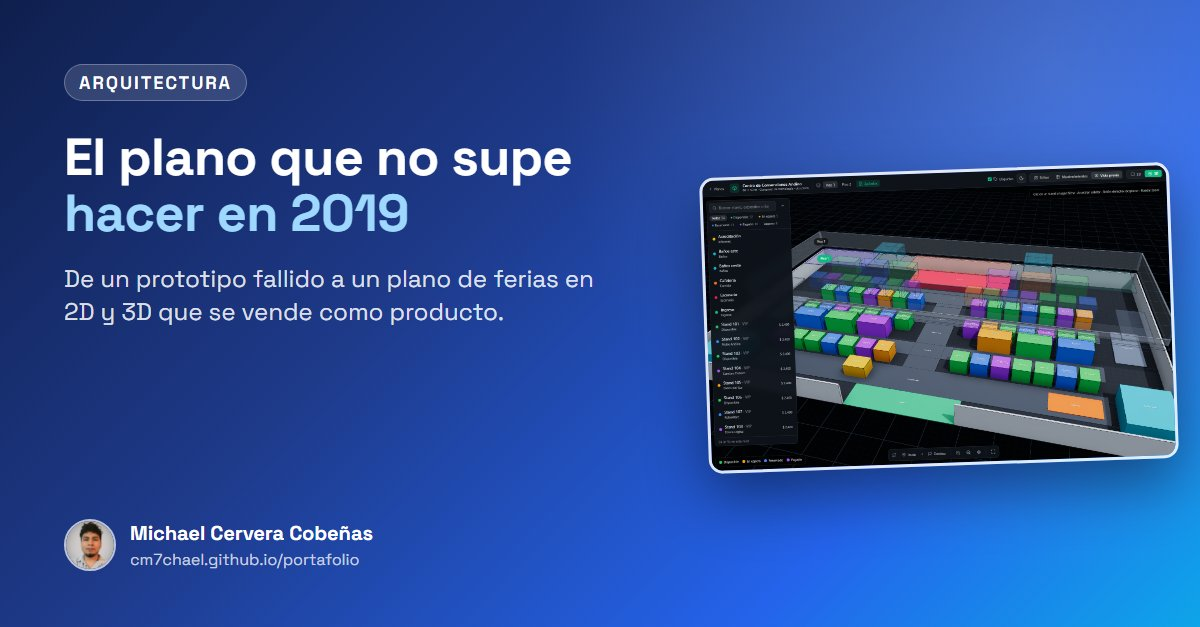
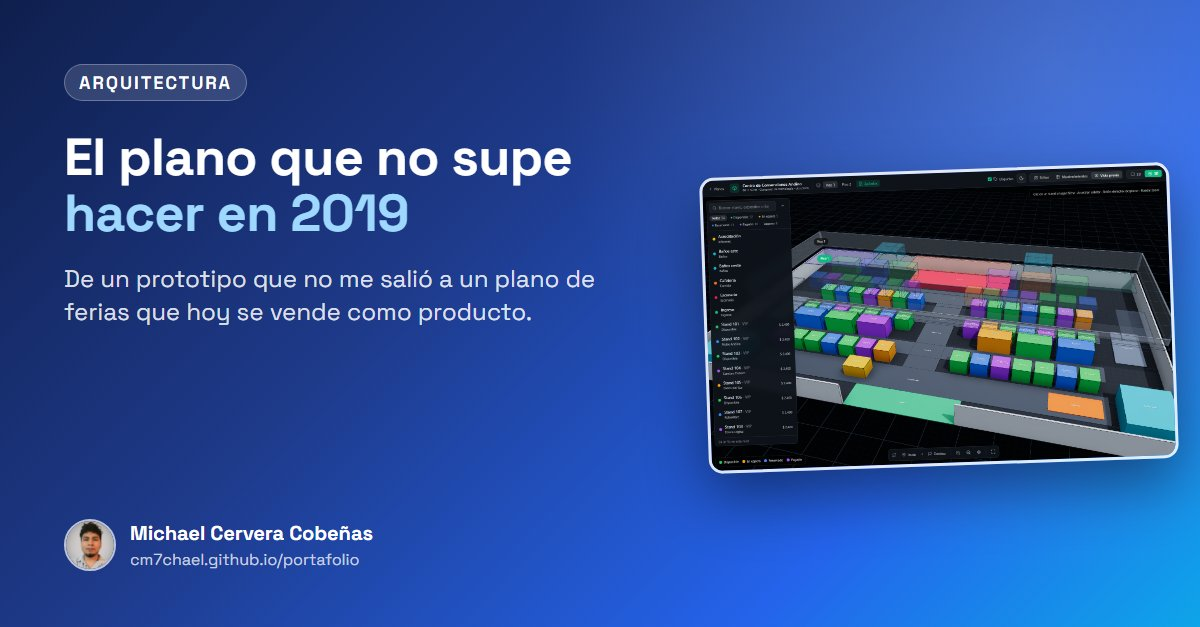
Artículo del plano: el sistema actual en el centro

Changed region(s): [[0.0308, 0.4242, 0.4933, 0.5152]]

diff --git a/blog/plano-de-ferias-que-no-supe-hacer-2019.html b/blog/plano-de-ferias-que-no-supe-hacer-2019.html
@@ -21,7 +21,7 @@
   <meta property="og:image" content="https://cm7chael.github.io/portafolio/assets/image/blog/plano-ferias.jpg">
   <meta property="og:url" content="https://cm7chael.github.io/portafolio/blog/plano-de-ferias-que-no-supe-hacer-2019.html">
   <meta name="twitter:card" content="summary_large_image">
-  <script type="application/ld+json">{"@context":"https://schema.org","@type":"BlogPosting","headline":"El plano de ferias que no supe hacer en 2019","description":"En 2019 intenté un plano web para ferias y no me salió. En 2025 lo retomamos y hoy se vende como producto. Qué puso la IA y qué tuvimos que decidir nosotros.","image":"https://cm7chael.github.io/portafolio/assets/image/blog/plano-ferias.jpg","datePublished":"2026-10-20T20:22:10.314Z","dateModified":"2026-10-20T20:22:10.333Z","author":{"@type":"Person","name":"Michael Cervera Cobeñas","url":"https://cm7chael.github.io/portafolio/"},"mainEntityOfPage":"https://cm7chael.github.io/portafolio/blog/plano-de-ferias-que-no-supe-hacer-2019.html","keywords":"Canvas, Konva, Three.js, IA, Producto"}</script>
+  <script type="application/ld+json">{"@context":"https://schema.org","@type":"BlogPosting","headline":"El plano de ferias que no supe hacer en 2019","description":"En 2019 intenté un plano web para ferias y no me salió. En 2025 lo retomamos y hoy se vende como producto. Qué puso la IA y qué tuvimos que decidir nosotros.","image":"https://cm7chael.github.io/portafolio/assets/image/blog/plano-ferias.jpg","datePublished":"2026-10-20T20:22:10.314Z","dateModified":"2026-10-20T20:40:00.379Z","author":{"@type":"Person","name":"Michael Cervera Cobeñas","url":"https://cm7chael.github.io/portafolio/"},"mainEntityOfPage":"https://cm7chael.github.io/portafolio/blog/plano-de-ferias-que-no-supe-hacer-2019.html","keywords":"Canvas, Konva, IA, Producto, Ferias"}</script>
 </head>
 <body>
   <nav class="navbar navbar-expand-lg navbar-dark nav-glass fixed-top">
@@ -54,23 +54,18 @@
 
 <p>Hice un primer prototipo con Fabric.js. No quedó bien. La librería no tuvo la culpa: yo no sabía cómo hacerlo. Me faltaba conocimiento para llevar un dibujo en un lienzo a algo que se pudiera guardar, editar y vender.</p>
 
-<p>En 2025 lo retomamos, y hoy la gestión de ferias de Zappyn y su plano se venden como producto. Cuento qué cambió en el camino, qué parte puso la IA y qué parte me tocó decidir a mí.</p>
+<p>En 2025 lo retomamos, y hoy la gestión de ferias de Zappyn y su plano se venden como producto. Cuento qué cambió en el camino, qué parte puso la IA y qué parte nos tocó decidir a nosotros.</p>
 
 <h2>Un plano de feria es más difícil de lo que parece</h2>
 
 <p>Visto de lejos, es un rectángulo con rectángulos adentro. Cuando te sientas a hacerlo aparecen las preguntas:</p>
 
 <ul>
-  <li>Cada stand tiene medidas reales, un precio, un tipo y un estado: disponible, en espera, reservado o pagado.</li>
-  <li>Un expositor puede ocupar varios stands, y cuando se le asigna uno libre, ese stand pasa a reservado.</li>
-  <li>Quien vende y quien visita ven el mismo plano, pero necesitan cosas distintas: el que vende quiere una tabla con totales; el visitante quiere encontrar un stand y saber cómo llegar.</li>
+  <li>Cada stand tiene medidas reales, un precio y un estado: disponible, en espera, reservado o pagado.</li>
+  <li>Un expositor puede ocupar varios stands, y un stand que ya está en espera, reservado o pagado no se le puede vender a otro.</li>
+  <li>Quien organiza, quien expone y quien visita ven el mismo plano, pero necesitan cosas distintas: el organizador lo dibuja y lo administra, el expositor reserva su stand y el visitante quiere encontrar uno y saber cómo llegar.</li>
   <li>Y lo que se dibuja tiene que volver a abrirse igual, mañana, en otra computadora.</li>
 </ul>
-
-<figure>
-  <img src="https://cm7chael.github.io/portafolio/assets/image/blog/plano-ferias-stands.jpg" alt="Tabla de stands con tipo, expositor, estado, precio y medidas de cada uno" width="1600" height="1000" loading="lazy">
-  <figcaption>Lo que ve quien vende: los mismos stands del plano, como tabla, con su estado y su precio.</figcaption>
-</figure>
 
 <p>En 2019 yo veía el dibujo. Las preguntas de abajo no las veía, y son las que deciden si el plano sirve.</p>
 
@@ -78,55 +73,56 @@
 
 <p>Lo que antes era buscar tutoriales, probar y frustrarme durante semanas, con ChatGPT y después con asistentes de código pasó a ser preguntar, probar y entender en una tarde. Cuando no sabía cómo hacer algo en un lienzo, podía pedir un ejemplo, leerlo, romperlo y preguntar por qué se rompía.</p>
 
-<p>Eso fue lo que me destrabó. En agosto de 2025 retomamos el plano en el equipo, esta vez con Konva, y en cuatro meses teníamos un editor con deshacer y rehacer que guarda solo las figuras que cambiaron en lugar del plano entero, y los primeros prototipos de app móvil para recorrerlo. En 2026 quedó integrado en la gestión de ferias de Zappyn.</p>
+<p>Eso fue lo que me destrabó. En agosto de 2025 retomamos el plano en el equipo, esta vez con Konva, y en cuatro meses teníamos el editor, la vista del visitante, la reserva de stands y los primeros prototipos de app móvil. En 2026 quedó integrado en la gestión de ferias de Zappyn.</p>
 
 <h2>Lo que la IA no decidió</h2>
 
-<p>La IA me ayudó a escribir el código mucho más rápido. Pero las decisiones que hacen que el plano funcione en una feria real las tuvimos que tomar nosotros:</p>
+<p>La IA nos ayudó a escribir el código mucho más rápido. Pero las decisiones que hacen que el plano funcione en una feria real las tuvimos que tomar nosotros:</p>
 
 <h3>Todo en metros</h3>
 
-<p>El recinto mide 90 por 60 metros y un stand mide 3 por 3. Si el modelo guarda píxeles, el plano depende de la pantalla en la que se dibujó. Si guarda metros, se puede mostrar en un celular, imprimir o calcular cuánto se camina de un punto a otro.</p>
+<p>El recinto mide lo que mide y un stand de 3 por 3 es de 3 por 3. Si el plano guarda píxeles, depende de la pantalla en la que se dibujó. Si guarda metros, se puede mostrar en un celular, calcular distancias y decirle al expositor, cuando reserva, cuántos metros cuadrados está comprando.</p>
 
-<figure>
-  <img src="https://cm7chael.github.io/portafolio/assets/image/blog/plano-ferias-2d.jpg" alt="Editor 2D de un plano de feria de 90 por 60 metros con stands, pasillos, escenario y patio de comidas" width="1600" height="1000" loading="lazy">
-  <figcaption>El editor en 2D: el plano mide 90 × 60 m y cada stand, sus metros reales. A la izquierda, la lista con el estado de cada uno.</figcaption>
-</figure>
+<h3>Cada uno ve lo que necesita</h3>
 
-
-<h3>Un solo modelo, dos vistas</h3>
-
-<p>En la versión en la que estoy trabajando ahora, el plano se edita en 2D y se presenta en 3D, y las dos vistas leen el mismo documento. El 3D es el mismo plano con altura. El modelo vive en un solo lugar y lo validan con las mismas reglas el navegador y el servidor.</p>
-
-<figure>
-  <img src="https://cm7chael.github.io/portafolio/assets/image/blog/plano-ferias-3d.jpg" alt="Vista 3D de un plano de feria de dos pisos con stands de colores según su estado" width="1600" height="1000" loading="lazy">
-  <figcaption>La vista 3D de un plano de ejemplo: el piso activo se ve completo y el de arriba, en transparencia.</figcaption>
-</figure>
-
-<h3>Que dos personas no se pisen</h3>
-
-<p>Un plano de feria lo tocan varias personas a la vez: quien diseña y quien vende. El editor guarda solo, unos instantes después del último cambio, y cada guardado lleva la versión con la que se abrió el plano. Si otra persona guardó antes, el servidor lo rechaza y el editor avisa "Otro usuario guardó antes", con un botón para recargar. Es mejor un aviso claro que perder en silencio el trabajo de alguien.</p>
+<p>El organizador tiene el editor: dibuja muros, pasillos, zonas y stands, deshace y rehace, y al guardar solo viajan las figuras que cambiaron. El expositor entra a reservar y solo puede elegir un stand libre; si alguien lo tomó antes, el sistema se lo dice y le pide elegir otro. El visitante ve una versión de solo lectura, con un buscador de stands y expositores.</p>
 
 <h3>"Cómo llegar"</h3>
 
-<p>El visitante busca un stand y el plano le traza la ruta desde donde está. Por debajo es una cuadrícula de medio metro que esquiva stands, muros, baños y escenario. Si el stand está en otro piso, la ruta va hasta la escalera que deja el recorrido total más corto, cambia de nivel y sigue. Y cada stand tiene su enlace, que puede ir en un QR impreso: lo escaneas y el plano se abre centrado en ese stand.</p>
+<p>El visitante elige un stand y el plano le traza el camino. Por debajo, el plano se convierte en una cuadrícula donde los stands y los muros son obstáculos, y el algoritmo A* busca la ruta más corta entre los pasillos. La ruta se dibuja encima del plano como una línea.</p>
+
+<p>Y acá la IA volvió a aparecer, pero del otro lado: el plano tiene un asistente al que el visitante le puede escribir "¿cómo llego al stand 7?". El asistente responde y, además, le pide al plano que dibuje esa ruta. La pregunta se hace en palabras y la respuesta llega en el mapa.</p>
+
+<h3>Un QR para cada vista</h3>
+
+<p>Una feria se recorre con el celular en la mano. Cualquier vista del plano se puede compartir como enlace o como código QR, que va impreso en la entrada o en un stand: lo escaneas y se abre el plano en ese punto.</p>
+
+<h2>La etapa que viene</h2>
+
+<p>Ahora estoy trabajando en la siguiente versión. El plano se edita en 2D y se presenta en 3D, y las dos vistas leen el mismo documento: el 3D es el mismo plano con altura, con varios pisos apilados y la ruta que cambia de nivel por la escalera más conveniente. También guarda solo, y si otra persona guardó antes, avisa "Otro usuario guardó antes" en lugar de pisar su trabajo.</p>
+
+<figure>
+  <img src="https://cm7chael.github.io/portafolio/assets/image/blog/plano-ferias-3d.jpg" alt="Vista 3D de un plano de feria de dos pisos con stands de colores según su estado" width="1600" height="1000" loading="lazy">
+  <figcaption>La versión en 3D, con un plano de ejemplo: el piso activo se ve completo y el de arriba, en transparencia.</figcaption>
+</figure>
 
 <figure>
   <img src="https://cm7chael.github.io/portafolio/assets/image/blog/plano-ferias-niveles.jpg" alt="Vista 3D de un recinto con una mezzanine sobre el primer nivel" width="1600" height="1000" loading="lazy">
   <figcaption>Un recinto con mezzanine: cada nivel a su altura, y el que no estás editando, en transparencia.</figcaption>
 </figure>
 
+<p>Esa versión todavía no está en producción. Cuando lo esté, lo cuento en otro artículo.</p>
 
 <h2>Lo que me llevo</h2>
 
 <p>Un proyecto que te salió mal no siempre está muerto. A veces la idea era buena y lo que faltaba era conocimiento, o herramientas, o las dos cosas. El plano de 2019 no sirvió como producto, pero me dejó claras las preguntas, y cuando tuve con qué responderlas, ya sabía cuáles eran.</p>
 
-<p>Y sobre la IA: me sirvió para lo que no sabía hacer. Saber qué hacer siguió siendo trabajo nuestro. Que el plano esté en metros, que dos personas no se pisen y que la ruta cambie de piso por la escalera correcta no lo propuso ningún asistente. Salió de pensar en la feria real, en quien vende y en quien camina buscando un stand.</p>
+<p>Y sobre la IA: me sirvió para lo que no sabía hacer. Saber qué hacer siguió siendo trabajo nuestro. Que el plano esté en metros, que un stand no se venda dos veces y que el visitante pueda preguntarle al plano cómo llegar no lo propuso ningún asistente. Salió de pensar en la feria real, en quien vende y en quien camina buscando un stand.</p>
 
 <p>Si alguna vez dejaste un proyecto a medias porque no sabías cómo hacerlo, cuéntamelo por <a href="https://www.linkedin.com/in/cm7chael/" target="_blank" rel="noopener">LinkedIn</a>. Me interesa saber si lo retomaste.</p>
 
       </div>
-      <div class="stack articulo__tags" id="articulo-tags"><span class="stack__item">Canvas</span><span class="stack__item">Konva</span><span class="stack__item">Three.js</span><span class="stack__item">IA</span><span class="stack__item">Producto</span></div>
+      <div class="stack articulo__tags" id="articulo-tags"><span class="stack__item">Canvas</span><span class="stack__item">Konva</span><span class="stack__item">IA</span><span class="stack__item">Producto</span><span class="stack__item">Ferias</span></div>
       <aside class="articulo__cierre" id="articulo-cierre" hidden>
         <img src="../assets/image/yo.jpg" alt="" width="64" height="64" loading="lazy">
         <div>

diff --git a/blog/index.html b/blog/index.html
@@ -50,7 +50,7 @@
     </header>
     <!-- La lista y los botones de categoría los deja escritos generar-blog.js; blog.js los activa. -->
     <div class="container" id="blog-lista" data-slugs="plano-de-ferias-que-no-supe-hacer-2019,decisiones-documentadas-adr-equipo,integrar-sap-business-one-gateway-tablas-espejo,design-system-angular-17-aplicaciones,cicd-sin-llaves-workload-identity-federation-cloud-run,microfrontends-angular-native-federation-lecciones-produccion">
-      <section class="blog-grupo" id="cat-arquitectura"><div class="blog-grupo__cabecera"><h2>Arquitectura</h2><span>4 artículos</span></div><div class="row"><div class="col-12 col-md-6 col-lg-4 mb-4"><a class="blog-card" href="https://cm7chael.github.io/portafolio/blog/plano-de-ferias-que-no-supe-hacer-2019.html"><img class="blog-card__img" src="https://cm7chael.github.io/portafolio/assets/image/blog/miniaturas/plano-ferias.jpg" alt="" width="1200" height="627" fetchpriority="high"><div class="blog-card__cuerpo"><p class="blog-card__meta">Arquitectura · 20 de octubre de 2026 · 4 min</p><h3>El plano de ferias que no supe hacer en 2019</h3><p class="blog-card__resumen">En 2019 intenté un plano web para ferias y no me salió. En 2025 lo retomamos y hoy se vende como producto. Qué puso la IA y qué tuvimos que decidir nosotros.</p><div class="stack"><span class="stack__item">Canvas</span><span class="stack__item">Konva</span><span class="stack__item">Three.js</span></div></div></a></div><div class="col-12 col-md-6 col-lg-4 mb-4"><a class="blog-card" href="https://cm7chael.github.io/portafolio/blog/integrar-sap-business-one-gateway-tablas-espejo.html"><img class="blog-card__img" src="https://cm7chael.github.io/portafolio/assets/image/blog/miniaturas/sap-una-sola-puerta.jpg" alt="" width="1200" height="627" loading="lazy"><div class="blog-card__cuerpo"><p class="blog-card__meta">Arquitectura · 10 de octubre de 2026 · 6 min</p><h3>SAP Business One con una sola puerta: cómo lo integré en 17 aplicaciones sin que ninguna le hable directo</h3><p class="blog-card__resumen">Cómo 17 aplicaciones usan SAP Business One sin conectarse a él: un gateway único, tablas espejo para los maestros y lo aprendido con el Service Layer.</p><div class="stack"><span class="stack__item">SAP Business One</span><span class="stack__item">Service Layer</span><span class="stack__item">HANA</span></div></div></a></div><div class="col-12 col-md-6 col-lg-4 mb-4"><a class="blog-card" href="https://cm7chael.github.io/portafolio/blog/design-system-angular-17-aplicaciones.html"><img class="blog-card__img" src="https://cm7chael.github.io/portafolio/assets/image/blog/miniaturas/design-system.jpg" alt="" width="1200" height="627" loading="lazy"><div class="blog-card__cuerpo"><p class="blog-card__meta">Arquitectura · 10 de octubre de 2026 · 6 min</p><h3>Un Design System para 17 aplicaciones: cómo lo armé en Angular y lo que me tocó corregir</h3><p class="blog-card__resumen">Cómo armé un Design System en Angular con Nx que usan 17 aplicaciones: librerías, tokens, Material encapsulado y lo que me tocó corregir.</p><div class="stack"><span class="stack__item">Design System</span><span class="stack__item">Angular</span><span class="stack__item">Nx</span></div></div></a></div><div class="col-12 col-md-6 col-lg-4 mb-4"><a class="blog-card" href="https://cm7chael.github.io/portafolio/blog/microfrontends-angular-native-federation-lecciones-produccion.html"><img class="blog-card__img" src="https://cm7chael.github.io/portafolio/assets/image/blog/miniaturas/microfrontends.jpg" alt="" width="1200" height="627" loading="lazy"><div class="blog-card__cuerpo"><p class="blog-card__meta">Arquitectura · 10 de octubre de 2026 · 6 min</p><h3>Microfrontends con Angular y Native Federation: lo que aprendí llevando más de 15 módulos a producción</h3><p class="blog-card__resumen">Lecciones reales de llevar más de 15 microfrontends a producción con Angular y Native Federation: rutas, CORS, caché, ambientes y Design System.</p><div class="stack"><span class="stack__item">microfrontends</span><span class="stack__item">Angular</span><span class="stack__item">Native Federation</span></div></div></a></div></div></section><section class="blog-grupo" id="cat-equipos-y-liderazgo"><div class="blog-grupo__cabecera"><h2>Equipos y liderazgo</h2><span>1 artículo</span></div><div class="row"><div class="col-12 col-md-6 col-lg-4 mb-4"><a class="blog-card" href="https://cm7chael.github.io/portafolio/blog/decisiones-documentadas-adr-equipo.html"><img class="blog-card__img" src="https://cm7chael.github.io/portafolio/assets/image/blog/miniaturas/decisiones-documentadas.jpg" alt="" width="1200" height="627" loading="lazy"><div class="blog-card__cuerpo"><p class="blog-card__meta">Equipos y liderazgo · 16 de octubre de 2026 · 5 min</p><h3>Decisiones documentadas: cómo uso los ADR para que el equipo avance con su propio criterio</h3><p class="blog-card__resumen">Qué es un ADR, la plantilla que uso, cuándo escribir uno y qué cambió en el equipo después de documentar 14 decisiones técnicas en dos meses.</p><div class="stack"><span class="stack__item">ADR</span><span class="stack__item">Arquitectura</span><span class="stack__item">Documentación</span></div></div></a></div></div></section><section class="blog-grupo" id="cat-cloud-y-devops"><div class="blog-grupo__cabecera"><h2>Cloud y DevOps</h2><span>1 artículo</span></div><div class="row"><div class="col-12 col-md-6 col-lg-4 mb-4"><a class="blog-card" href="https://cm7chael.github.io/portafolio/blog/cicd-sin-llaves-workload-identity-federation-cloud-run.html"><img class="blog-card__img" src="https://cm7chael.github.io/portafolio/assets/image/blog/miniaturas/cicd-sin-llaves.jpg" alt="" width="1200" height="627" loading="lazy"><div class="blog-card__cuerpo"><p class="blog-card__meta">Cloud y DevOps · 10 de octubre de 2026 · 6 min</p><h3>CI/CD sin llaves: cómo despliego más de 20 repositorios a Cloud Run con Workload Identity Federation</h3><p class="blog-card__resumen">Cómo desplegar a Cloud Run desde GitHub Actions sin llaves de servicio, con Workload Identity Federation: paso a paso y lo aprendido con más de 20 repos.</p><div class="stack"><span class="stack__item">CI/CD</span><span class="stack__item">GitHub Actions</span><span class="stack__item">Google Cloud</span></div></div></a></div></div></section>
+      <section class="blog-grupo" id="cat-arquitectura"><div class="blog-grupo__cabecera"><h2>Arquitectura</h2><span>4 artículos</span></div><div class="row"><div class="col-12 col-md-6 col-lg-4 mb-4"><a class="blog-card" href="https://cm7chael.github.io/portafolio/blog/plano-de-ferias-que-no-supe-hacer-2019.html"><img class="blog-card__img" src="https://cm7chael.github.io/portafolio/assets/image/blog/miniaturas/plano-ferias.jpg" alt="" width="1200" height="627" fetchpriority="high"><div class="blog-card__cuerpo"><p class="blog-card__meta">Arquitectura · 20 de octubre de 2026 · 4 min</p><h3>El plano de ferias que no supe hacer en 2019</h3><p class="blog-card__resumen">En 2019 intenté un plano web para ferias y no me salió. En 2025 lo retomamos y hoy se vende como producto. Qué puso la IA y qué tuvimos que decidir nosotros.</p><div class="stack"><span class="stack__item">Canvas</span><span class="stack__item">Konva</span><span class="stack__item">IA</span></div></div></a></div><div class="col-12 col-md-6 col-lg-4 mb-4"><a class="blog-card" href="https://cm7chael.github.io/portafolio/blog/integrar-sap-business-one-gateway-tablas-espejo.html"><img class="blog-card__img" src="https://cm7chael.github.io/portafolio/assets/image/blog/miniaturas/sap-una-sola-puerta.jpg" alt="" width="1200" height="627" loading="lazy"><div class="blog-card__cuerpo"><p class="blog-card__meta">Arquitectura · 10 de octubre de 2026 · 6 min</p><h3>SAP Business One con una sola puerta: cómo lo integré en 17 aplicaciones sin que ninguna le hable directo</h3><p class="blog-card__resumen">Cómo 17 aplicaciones usan SAP Business One sin conectarse a él: un gateway único, tablas espejo para los maestros y lo aprendido con el Service Layer.</p><div class="stack"><span class="stack__item">SAP Business One</span><span class="stack__item">Service Layer</span><span class="stack__item">HANA</span></div></div></a></div><div class="col-12 col-md-6 col-lg-4 mb-4"><a class="blog-card" href="https://cm7chael.github.io/portafolio/blog/design-system-angular-17-aplicaciones.html"><img class="blog-card__img" src="https://cm7chael.github.io/portafolio/assets/image/blog/miniaturas/design-system.jpg" alt="" width="1200" height="627" loading="lazy"><div class="blog-card__cuerpo"><p class="blog-card__meta">Arquitectura · 10 de octubre de 2026 · 6 min</p><h3>Un Design System para 17 aplicaciones: cómo lo armé en Angular y lo que me tocó corregir</h3><p class="blog-card__resumen">Cómo armé un Design System en Angular con Nx que usan 17 aplicaciones: librerías, tokens, Material encapsulado y lo que me tocó corregir.</p><div class="stack"><span class="stack__item">Design System</span><span class="stack__item">Angular</span><span class="stack__item">Nx</span></div></div></a></div><div class="col-12 col-md-6 col-lg-4 mb-4"><a class="blog-card" href="https://cm7chael.github.io/portafolio/blog/microfrontends-angular-native-federation-lecciones-produccion.html"><img class="blog-card__img" src="https://cm7chael.github.io/portafolio/assets/image/blog/miniaturas/microfrontends.jpg" alt="" width="1200" height="627" loading="lazy"><div class="blog-card__cuerpo"><p class="blog-card__meta">Arquitectura · 10 de octubre de 2026 · 6 min</p><h3>Microfrontends con Angular y Native Federation: lo que aprendí llevando más de 15 módulos a producción</h3><p class="blog-card__resumen">Lecciones reales de llevar más de 15 microfrontends a producción con Angular y Native Federation: rutas, CORS, caché, ambientes y Design System.</p><div class="stack"><span class="stack__item">microfrontends</span><span class="stack__item">Angular</span><span class="stack__item">Native Federation</span></div></div></a></div></div></section><section class="blog-grupo" id="cat-equipos-y-liderazgo"><div class="blog-grupo__cabecera"><h2>Equipos y liderazgo</h2><span>1 artículo</span></div><div class="row"><div class="col-12 col-md-6 col-lg-4 mb-4"><a class="blog-card" href="https://cm7chael.github.io/portafolio/blog/decisiones-documentadas-adr-equipo.html"><img class="blog-card__img" src="https://cm7chael.github.io/portafolio/assets/image/blog/miniaturas/decisiones-documentadas.jpg" alt="" width="1200" height="627" loading="lazy"><div class="blog-card__cuerpo"><p class="blog-card__meta">Equipos y liderazgo · 16 de octubre de 2026 · 5 min</p><h3>Decisiones documentadas: cómo uso los ADR para que el equipo avance con su propio criterio</h3><p class="blog-card__resumen">Qué es un ADR, la plantilla que uso, cuándo escribir uno y qué cambió en el equipo después de documentar 14 decisiones técnicas en dos meses.</p><div class="stack"><span class="stack__item">ADR</span><span class="stack__item">Arquitectura</span><span class="stack__item">Documentación</span></div></div></a></div></div></section><section class="blog-grupo" id="cat-cloud-y-devops"><div class="blog-grupo__cabecera"><h2>Cloud y DevOps</h2><span>1 artículo</span></div><div class="row"><div class="col-12 col-md-6 col-lg-4 mb-4"><a class="blog-card" href="https://cm7chael.github.io/portafolio/blog/cicd-sin-llaves-workload-identity-federation-cloud-run.html"><img class="blog-card__img" src="https://cm7chael.github.io/portafolio/assets/image/blog/miniaturas/cicd-sin-llaves.jpg" alt="" width="1200" height="627" loading="lazy"><div class="blog-card__cuerpo"><p class="blog-card__meta">Cloud y DevOps · 10 de octubre de 2026 · 6 min</p><h3>CI/CD sin llaves: cómo despliego más de 20 repositorios a Cloud Run con Workload Identity Federation</h3><p class="blog-card__resumen">Cómo desplegar a Cloud Run desde GitHub Actions sin llaves de servicio, con Workload Identity Federation: paso a paso y lo aprendido con más de 20 repos.</p><div class="stack"><span class="stack__item">CI/CD</span><span class="stack__item">GitHub Actions</span><span class="stack__item">Google Cloud</span></div></div></a></div></div></section>
     </div>
     <!-- /blog-lista -->
   </main>
